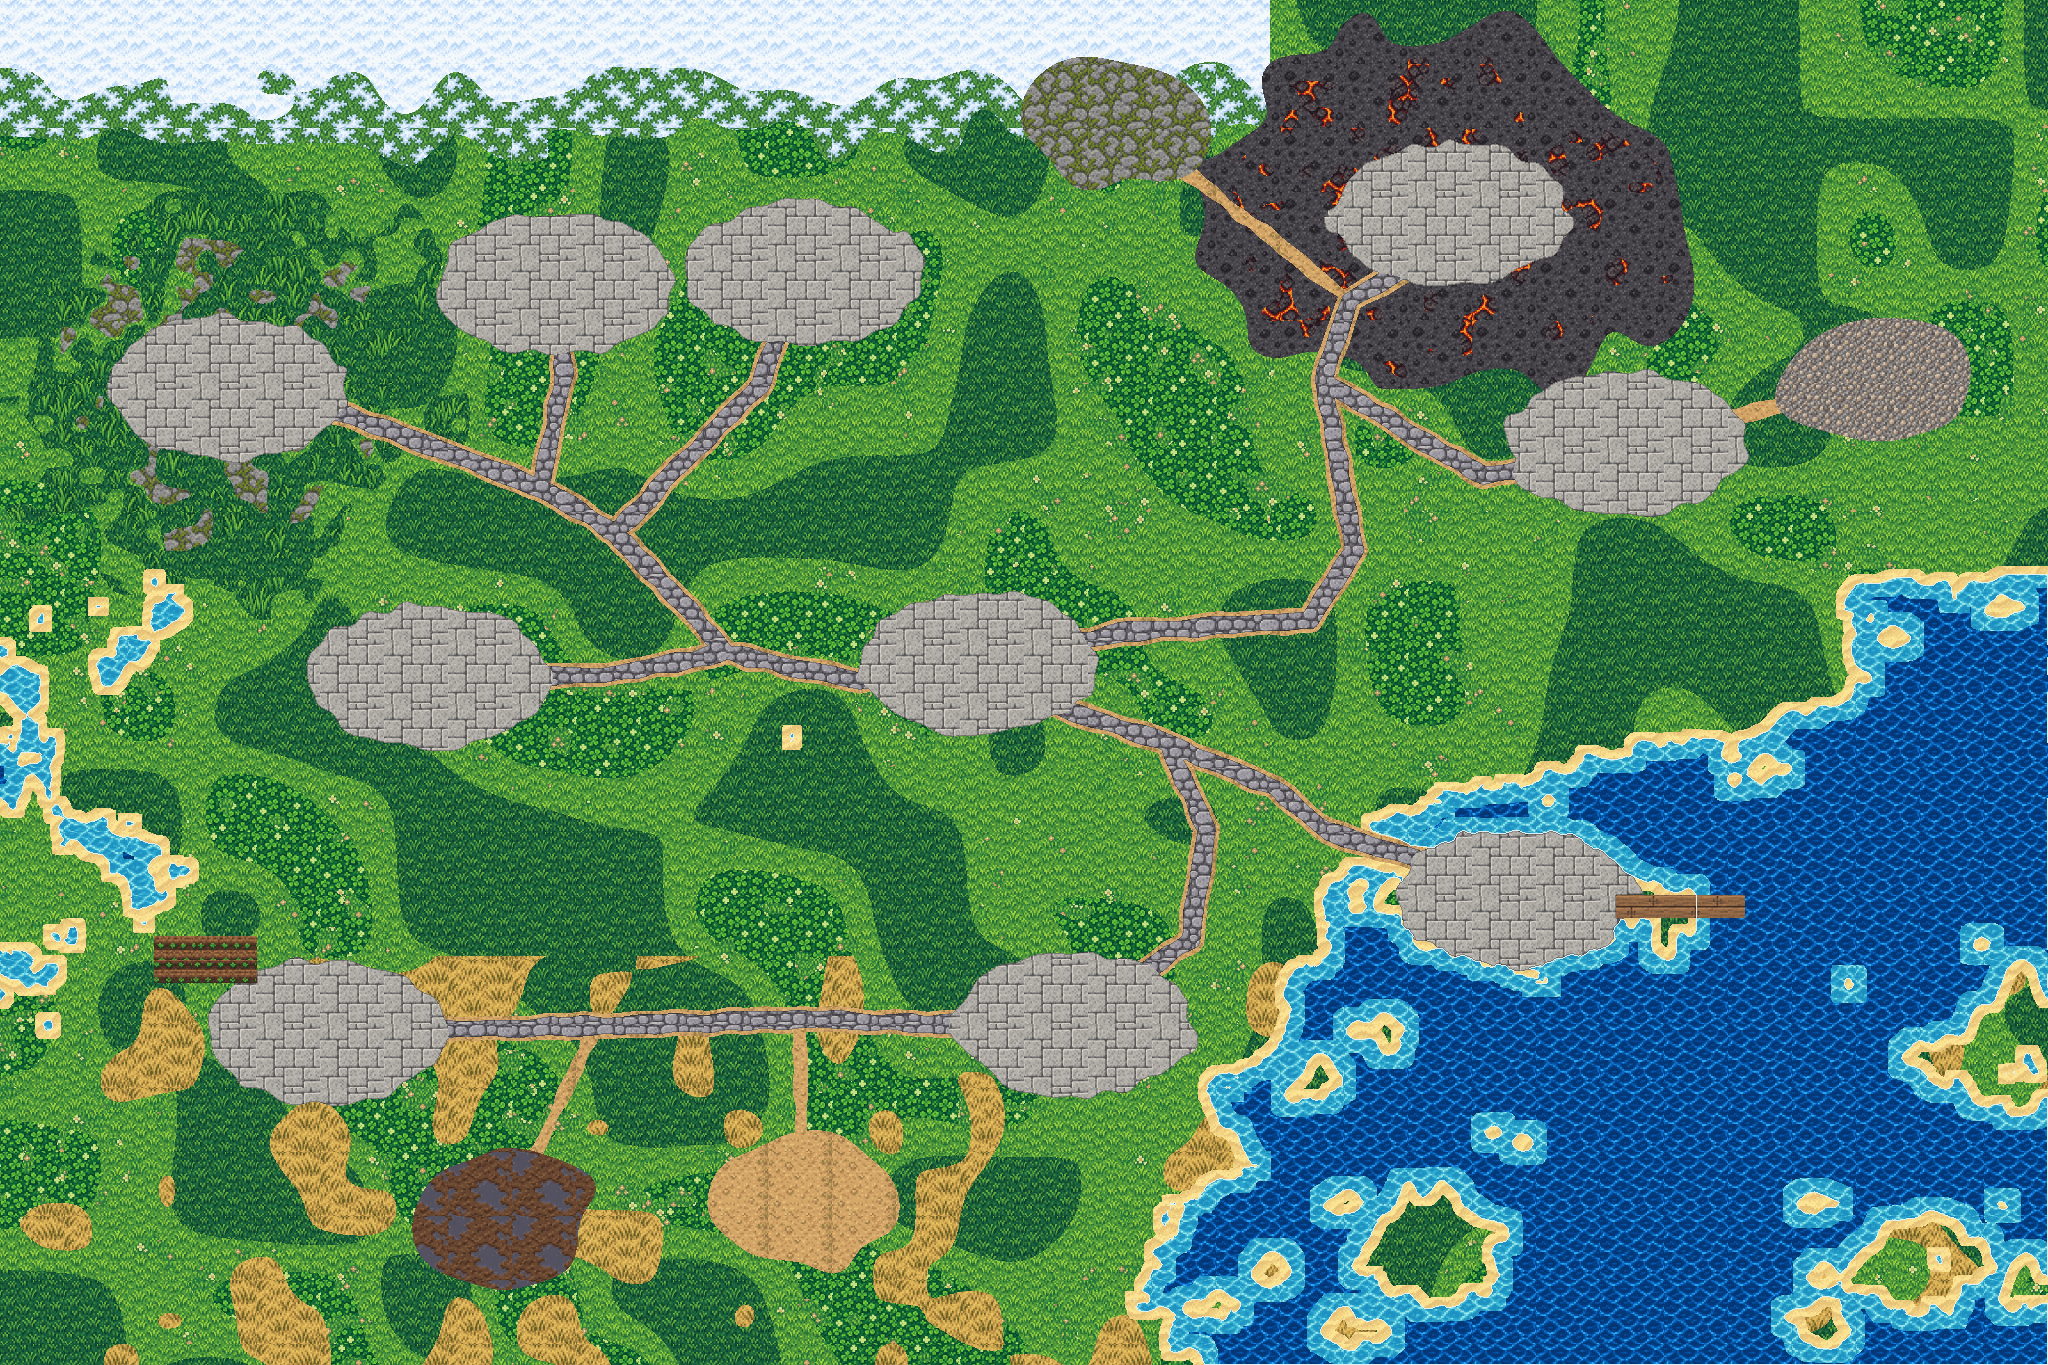
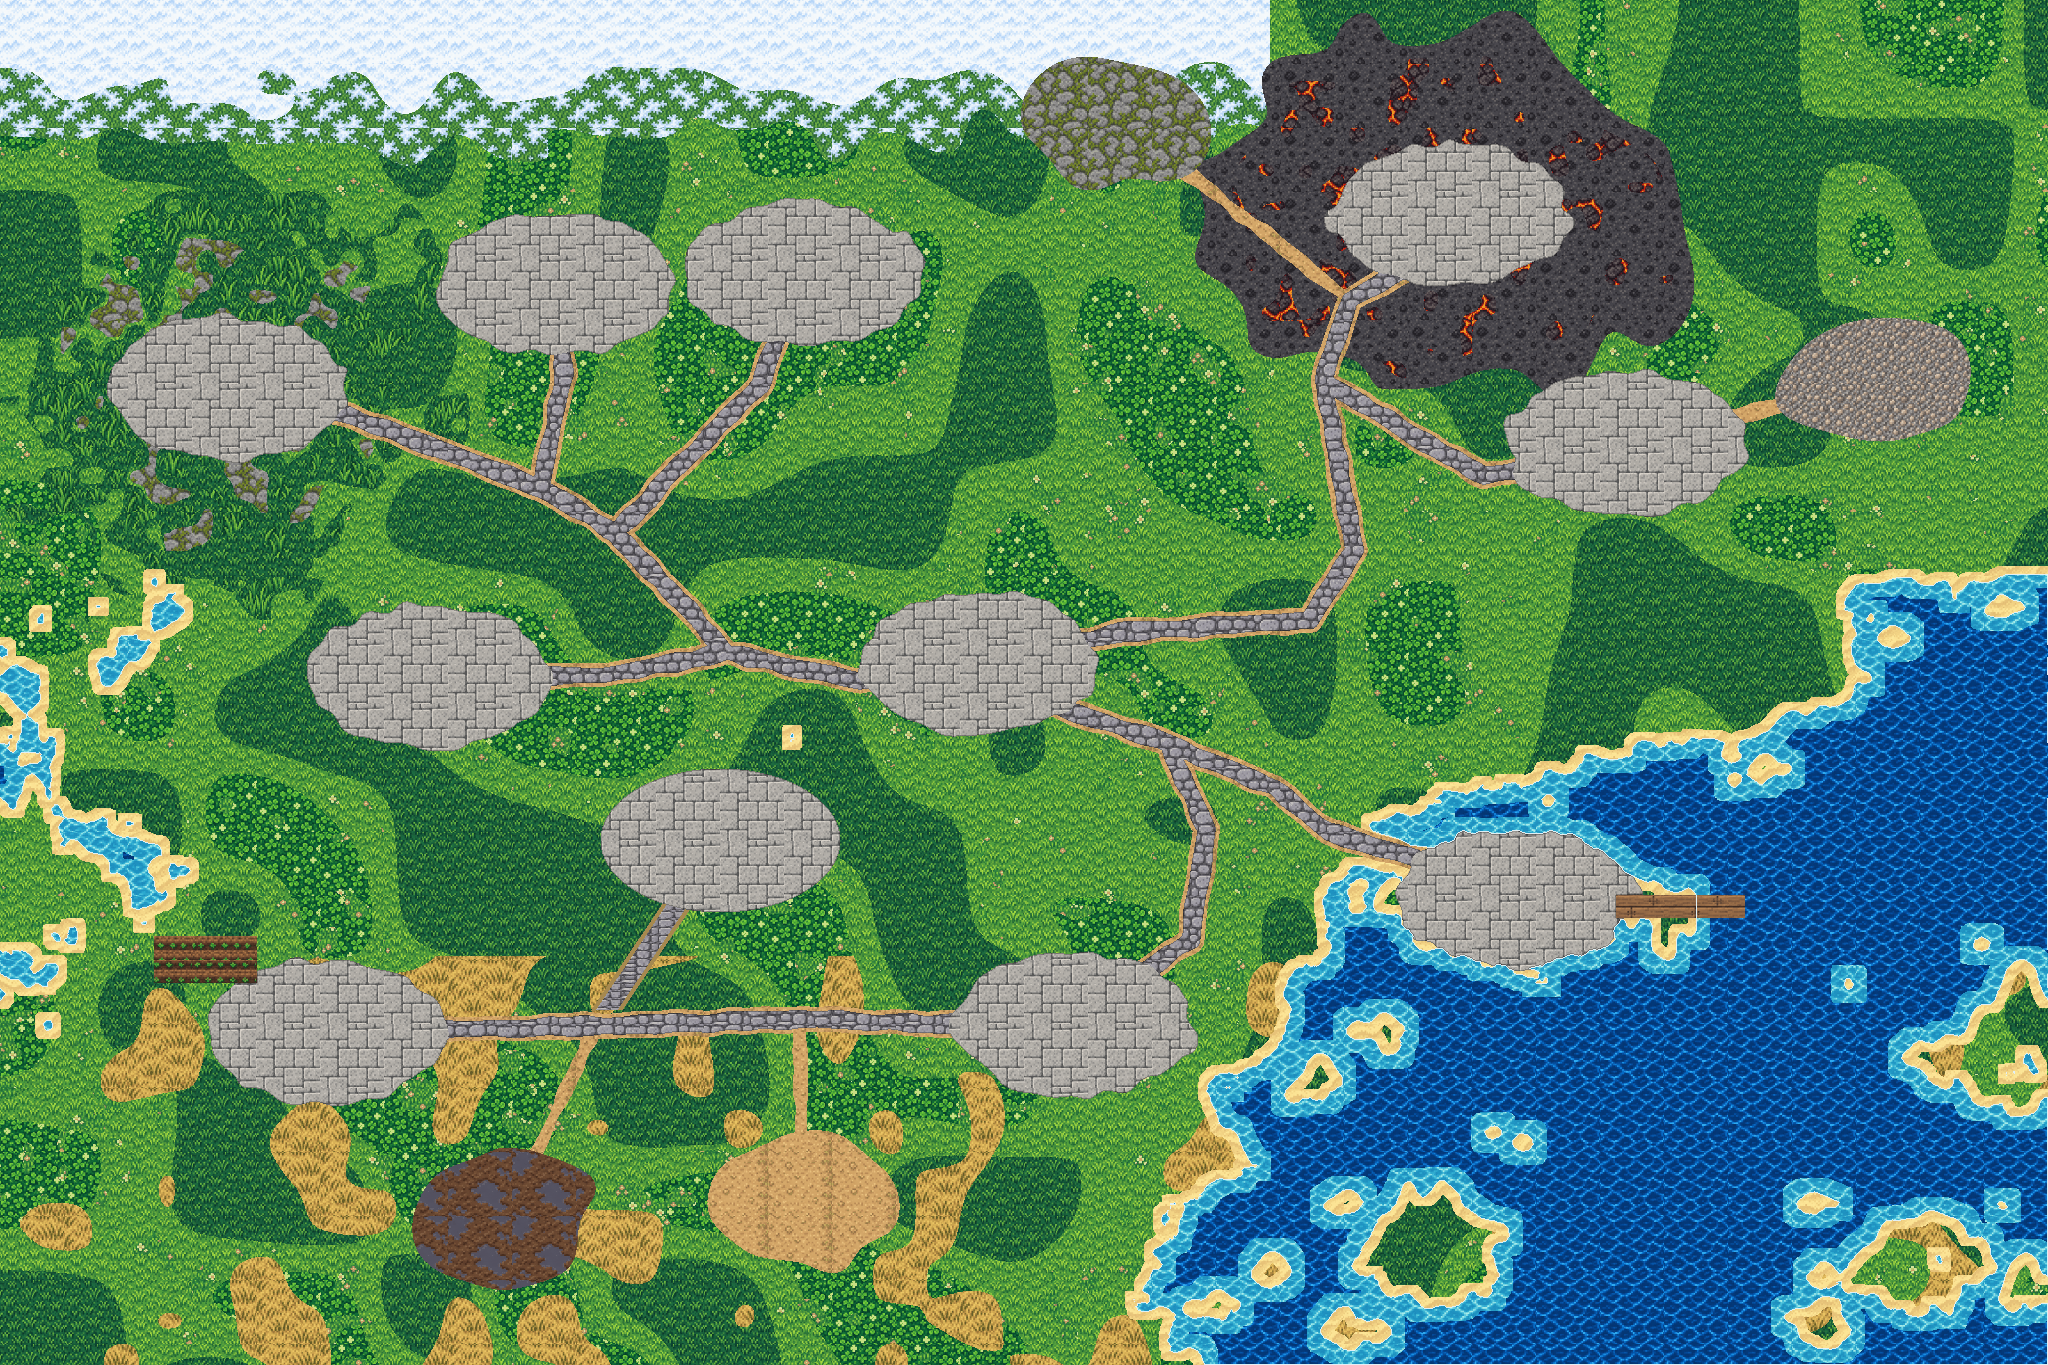
feat(world): add rest inn and failover portal region

Changed region(s): [[0.2812, 0.5538, 0.4062, 0.7385]]

diff --git a/tools/place.py b/tools/place.py
@@ -3,7 +3,59 @@
 signposts at junctions, forests/rocks in open land, boats at sea. Writes world.json 'props'.
 Rules keep roads and the battle area of each plaza clear, so walking and fighting never collide
 with scenery. Props are y-sorted with characters in game.js (depth, nothing floats)."""
-import json, math, os, random
+import json, math, os, random, sys
+
+
+def rest_inn():
+    """Add the pause inn without rerolling existing scenery or the old inn/camp."""
+    from pathlib import Path
+    from PIL import Image
+    w = json.load(open('data/world.json'))
+    if 'rest_inn' in w['regions']:
+        print('rest_inn already placed'); return
+    x, y = 720, 840
+    w['regions']['rest_inn'] = dict(
+        spot=[x, y], label='REST INN · ค่ายพัก', node='rest_inn',
+        rest_spots=[[660, 864], [700, 864], [740, 864], [780, 864],
+                    [680, 884], [720, 884], [760, 884]],
+        portal=dict(spot=[795, 858], img='rest_portal', role='failover'))
+    w['graph']['pts']['rest_inn'] = [x, y]
+    w['graph']['edges'].append(['vill_e', 'rest_inn'])
+    # Clear only scenery intersecting the new plaza, building or road spur.
+    # Keep every region/lair prop and everything outside this local footprint.
+    a = w['graph']['pts']['vill_e']; dx, dy = x - a[0], y - a[1]
+    def obstructs(p):
+        if p.get('region') or p.get('lair'): return False
+        path = Path(f"assets/px/{p.get('src', 'buildings')}/{p['img']}.png")
+        with Image.open(path) as im: pw, ph = im.size
+        left, right = p['x'] - pw / 2, p['x'] + pw / 2
+        top, bottom = p['y'] - ph, p['y'] + 6
+        if left < x + 140 and right > x - 140 and top < y + 80 and bottom > y - 225:
+            return True
+        t = max(0, min(1, ((p['x'] - a[0]) * dx + (p['y'] - a[1]) * dy) / (dx * dx + dy * dy)))
+        qx, qy = a[0] + t * dx, a[1] + t * dy
+        return left - 16 < qx < right + 16 and top - 16 < qy < bottom + 16
+    w['props'] = [p for p in w['props'] if not obstructs(p)]
+    out = Path('assets/px/regions'); out.mkdir(exist_ok=True)
+    # Existing processed sprites already share the world's hard-alpha palette.
+    with Image.open('assets/px/buildings/inn.png') as im: im.save(out / 'rest_lodge.png')
+    with Image.open('assets/px/lairs/ruins.png') as im:
+        im.resize((64, 47), Image.Resampling.NEAREST).save(out / 'rest_portal.png')
+    for img, src, px, py, pw, ph, extra in [
+        ('rest_lodge', 'regions', x, y - 40, 212, 176, dict(region='rest_inn')),
+        ('rest_portal', 'regions', x + 90, y - 2, 64, 47, dict(role='failover')),
+        ('tent', 'props', x - 155, y + 30, 94, 67, {}),
+        ('campfire', 'props', x - 110, y + 40, 36, 30, {}),
+        ('flowers', 'props', x - 96, y - 32, 32, 28, {}),
+        ('bush', 'props', x + 96, y - 32, 40, 30, {}),
+    ]:
+        w['props'].append(dict(img=img, src=src, x=px, y=py, w=pw, h=ph, **extra))
+    json.dump(w, open('data/world.json', 'w'), ensure_ascii=False)
+    print('rest_inn placed; 7 rest spots, failover portal, vill_e road spur')
+
+
+if sys.argv[1:] == ['--rest-inn']:
+    rest_inn(); sys.exit(0)
 
 random.seed(3)
 w = json.load(open('data/world.json'))

diff --git a/tools/terrain.py b/tools/terrain.py
@@ -8,7 +8,7 @@
 3. Paint each native pixel from its class tile (tiled), mix grass variants by noise, add 1px curbs
    on road/plaza edges and a foam line on the shore. Writes assets/px/ground.png.
 """
-import json
+import json, sys
 
 import numpy as np
 from PIL import Image
@@ -112,5 +112,49 @@ def main():
     print('ground ok', sorted(set(cls.ravel())))
 
 
+def rest_ground():
+    """Paint only the new inn/road using processed terrain, never reroll the map."""
+    from pathlib import Path
+    w = json.load(open('data/world.json'))
+    ground = Image.open('assets/px/ground.png').convert('RGB')
+    out = np.array(ground)
+    yy, xx = np.mgrid[0:ground.height, 0:ground.width]
+    pts = w['graph']['pts']
+    def distance(a, b):
+        ax, ay = pts[a]; bx, by = pts[b]; dx, dy = bx - ax, by - ay
+        t = np.clip(((xx - ax) * dx + (yy - ay) * dy) / max(1, dx * dx + dy * dy), 0, 1)
+        return np.hypot(xx - ax - t * dx, yy - ay - t * dy)
+    x, y = w['regions']['rest_inn']['spot']
+    road = distance('vill_e', 'rest_inn')
+    plaza = ((xx - x) / 120) ** 2 + ((yy - y) / 72) ** 2 < 1
+    # Preserve ALL old paved roads/plazas, including the junction at vill_e.
+    protected = np.zeros(xx.shape, bool)
+    for a, b in w['graph']['edges'] + w['graph'].get('wild', []):
+        if 'rest_inn' not in (a, b): protected |= distance(a, b) < 15
+    for key, r in w['regions'].items():
+        if key != 'rest_inn':
+            rx, ry = r['spot']; protected |= ((xx - rx) / 125) ** 2 + ((yy - ry) / 77) ** 2 < 1
+    outdir = Path('assets/px/regions'); outdir.mkdir(exist_ok=True)
+    # Sample untouched native tiles once; retain them for repeatable additive builds.
+    for name, box in [('rest_cobble', (668, 1018, 732, 1026)),
+                      ('rest_flagstone', (944, 631, 1008, 695))]:
+        p = outdir / f'{name}.png'
+        if not p.exists(): ground.crop(box).save(p)
+    mask = ((road < 13) | plaza) & ~protected
+    # Dirt curb uses the existing brown road-edge palette; no new AI/raw dependency.
+    out[mask] = ground.getpixel((700, 1033))
+    for name, m in [('rest_cobble', (road < 9) & ~plaza), ('rest_flagstone', plaza)]:
+        tile = np.array(Image.open(outdir / f'{name}.png').convert('RGB'))
+        m = m & mask
+        out[m] = tile[yy[m] % tile.shape[0], xx[m] % tile.shape[1]]
+    edge = plaza & ~(np.roll(plaza, 1, 0) & np.roll(plaza, -1, 0) & np.roll(plaza, 1, 1) & np.roll(plaza, -1, 1))
+    out[edge & mask] = (out[edge & mask] * .72).astype('uint8')
+    Image.fromarray(out).save('assets/px/ground.png')
+    print('rest_inn terrain; additive mask pixels', int(mask.sum()))
+
+
 if __name__ == '__main__':
-    main()
+    if sys.argv[1:] == ['--rest-inn']:
+        rest_ground()
+    else:
+        main()

diff --git a/tools/lairs.py b/tools/lairs.py
@@ -2,13 +2,19 @@
 """Add monster lairs + war camp to the world: wild nodes, dirt trails to the nearest road node (graph 'wild'
 edges, used by monsters only), and lair props. Heroes never route over 'wild' edges.
 Run before tools/terrain.py (trails are painted) and tools/place.py (keeps trees off trails)."""
-import json, math
+import json, math, sys
 
 import numpy as np
 from PIL import Image
 
 w = json.load(open('data/world.json'))
 G = w['graph']; P = G['pts']
+if sys.argv[1:] == ['--preserve']:
+    # Additive region work must not relocate existing lairs or change wild routing.
+    for key, lair in w['lairs'].items():
+        if P[key] != lair['spot'] or [key, lair['road']] not in G['wild']:
+            raise SystemExit(f'inconsistent existing lair: {key}')
+    print('existing lairs and wild trails preserved'); sys.exit(0)
 g = np.array(Image.open('assets/raw/ground.png').convert('RGB').resize(tuple(w['size']))).astype(int)
 
 
